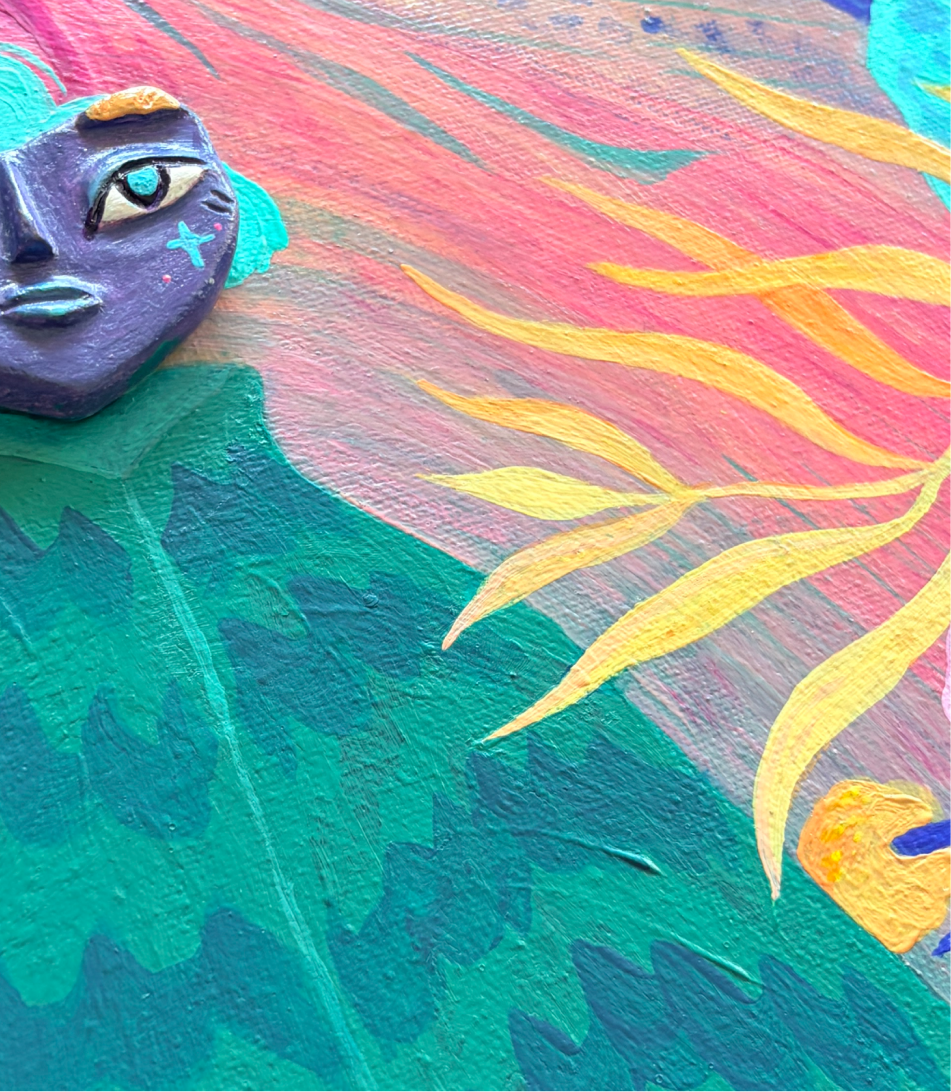
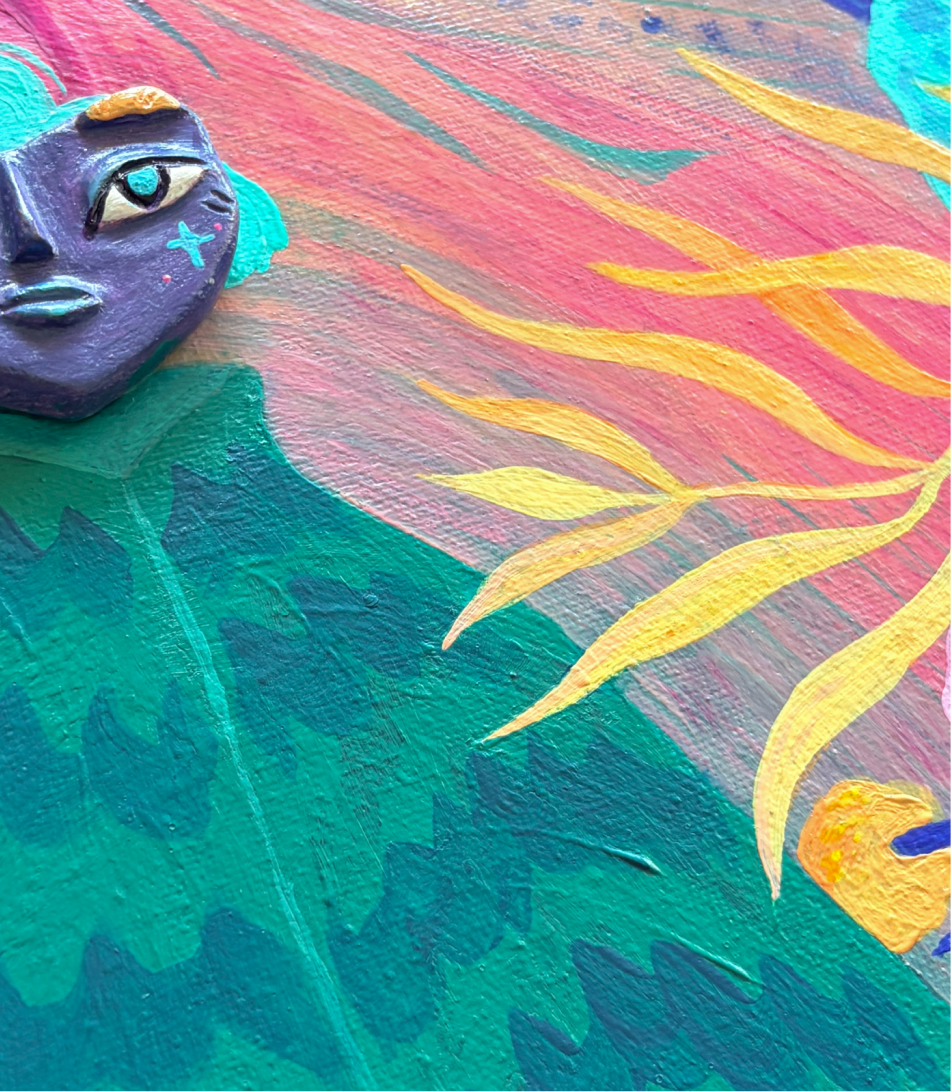
image fix

diff --git a/products.js b/products.js
@@ -342,7 +342,7 @@ Like a totem, it stands tall, carrying the weight of memories, of connections, o
     dims: { w: 20, h: 20, d: 1.5 },
     weight: 0.3, productionCost: 3, hoursWorked: 4, framed: 'unframed', flatPackable: true,
     materials: 'Mixed media on canvas',
-    images: ['images/small-painting-seeandforest-01.png','images/small-painting-seaandforest-02.png','images/small-painting-seeandforest-03.png','images/small-painting-seaandforest-04.png','images/small-painting-seaandforest-05.png','images/small-painting-seaandforest-06.png'],
+    images: ['images/small-painting-seeandforest-01.png','images/small-painting-seeandforest-02.png','images/small-painting-seeandforest-03.png','images/small-painting-seeandforest-04.png','images/small-painting-seeandforest-05.png','images/small-painting-seeandforest-06.png'],
   },
 
   mistify: {
